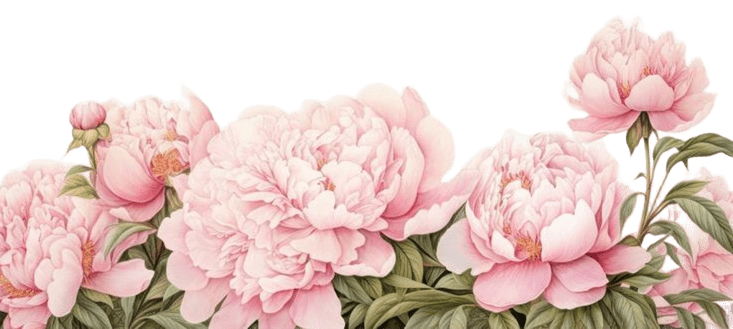
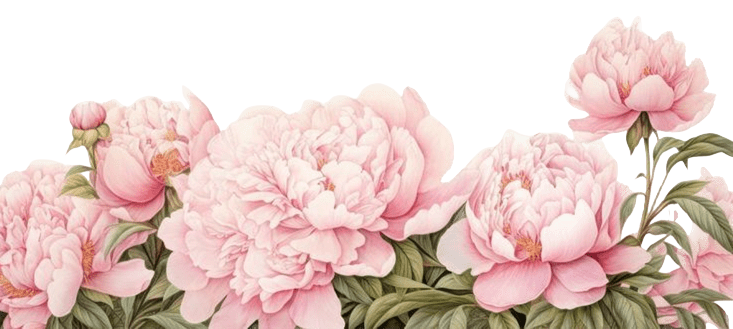
previes

diff --git a/index.html b/index.html
@@ -14,7 +14,7 @@
     <!-- Descripción para buscadores y redes -->
     <meta
         name="description"
-        content="Invitación digital para celebrar los XV años"
+        content="Invitación digital para celebrar mis XV años"
     >
     <title>Mis XV Años | Krystel</title>
 
@@ -305,9 +305,9 @@
 
 <section>
     <div class="section-frase">
-        <p class="frase-text">Con la bendicíon de Dios y el amor de mi familia, 
-            celebro la alegría de cumplir mis XV años y deseo que
-            formes parte de este día inolvidable.
+        <p class="frase-text">Con mucha ilusíon y alegría, quiero compartir contigo
+            un momento muy especial en mi vida. Ha llegado el día que cumpliré mis 15 años y sería un
+            honor que me acompañes para celebrar juntos.
         </p>
     </div>
 </section>
@@ -916,10 +916,14 @@
                     MIS RECUERDOS
                 </p>
 
+            
 
-                <h2 class="section-title reveal">
+
+                <h2 class="section-title-gallery reveal">
                     Galería
                 </h2>
+
+               
 
 
                 <div class="gallery-grid">
@@ -1006,6 +1010,17 @@
         </section>
 
 
+        <section class="section-frase">
+            <img src="/img/galeria/corona.png">
+            <p class="frase-text"> Con la bendicíon de Dios y el amor de mi familia, 
+            celebro la alegría de cumplir mis XV años y deseo que
+            formes parte de este día inolvidable.
+                
+            </p>
+
+        </section>
+
+
 
         <!-- =====================================
              CONFIRMACIÓN
@@ -1065,32 +1080,17 @@
 
         <section class="final-section section">
 
-            <div class="section-container reveal">
+          
+
+          
+<img src="/img/galeria/florfinal.png" >
+
+                
 
 
-                <div class="flower-divider">
+              
 
-                    ❀ ✦ ❀
-
-                </div>
-
-
-                <p class="final-message">
-
-                    Será un honor compartir
-                    este día contigo.
-
-                </p>
-
-
-                <h2 class="final-name">
-
-                    Krystel
-
-                </h2>
-
-
-            </div>
+           
 
         </section>
 

diff --git a/css/styles.css b/css/styles.css
@@ -1702,8 +1702,9 @@ background-image: url(/img/galeria/portada1.webp),
 
 }
 
-.marco-2{
+.marco-2 img{
     margin-left: 10px;
+    animation: fadeIn 3s ease-in-out;
 }
 
 
@@ -1715,7 +1716,22 @@ background-image: url(/img/galeria/portada1.webp),
 .gallery-section {
 
     background:
-        var(--pink-light);
+        var(--pink-medium);
+        background-image: url(/img//galeria/portada2.webp),linear-gradient(
+            180deg,
+            var(--rose-gold),
+            var(--pink-medium)
+        );
+
+}
+
+.section-title-gallery {
+    color: var(--rose-gold);
+    font-family: "Allura", cursive;
+    font-size: clamp(4.5rem, 7vw, 5rem);
+    font-weight: 500;
+    text-align: center;
+    animation: fadeIn 3s ease-in-out;
 
 }
 
@@ -1885,6 +1901,13 @@ background-image: url(/img/galeria/portada1.webp),
 }
 
 
+.section-frase img{
+    margin-bottom: 20px;
+    
+    animation: fadeIn 3s ease-in-out;
+}
+
+
 
 /* =========================================================
    RSVP
@@ -1924,9 +1947,12 @@ background-image: url(/img/galeria/portada1.webp),
 
     background:
         linear-gradient(
-            var(--pink-light),
-            var(--white)
+            var(--white),
+            var(--pink-medium)
         );
+
+        padding: 0%;
+        margin: 0;
 
 }
 
